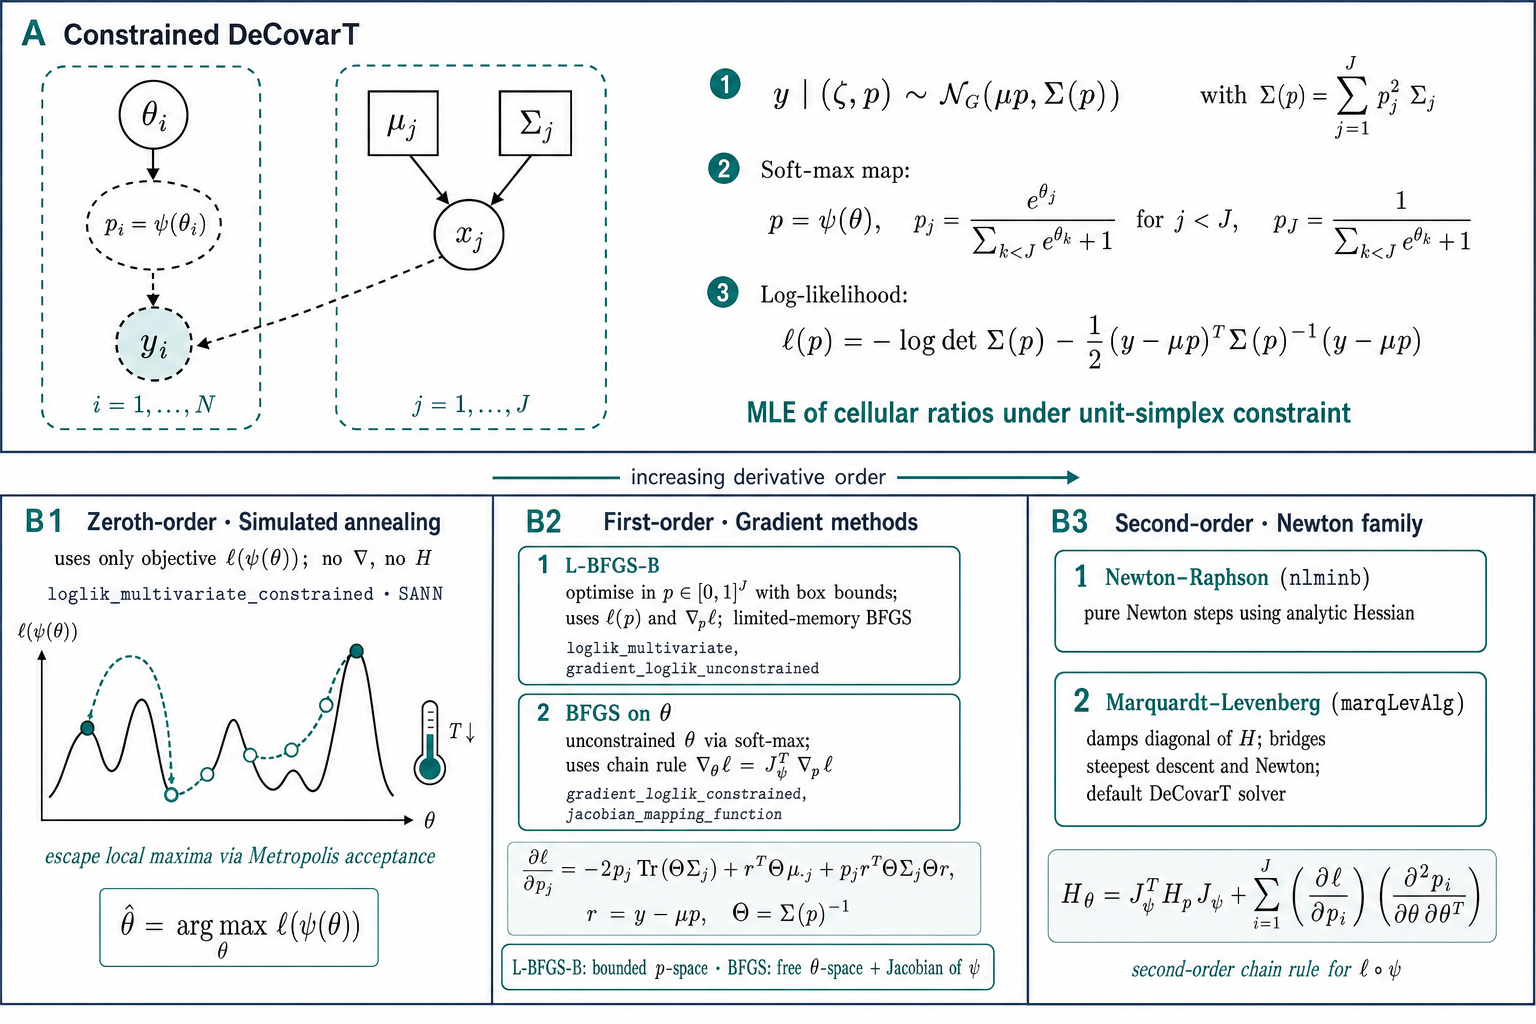
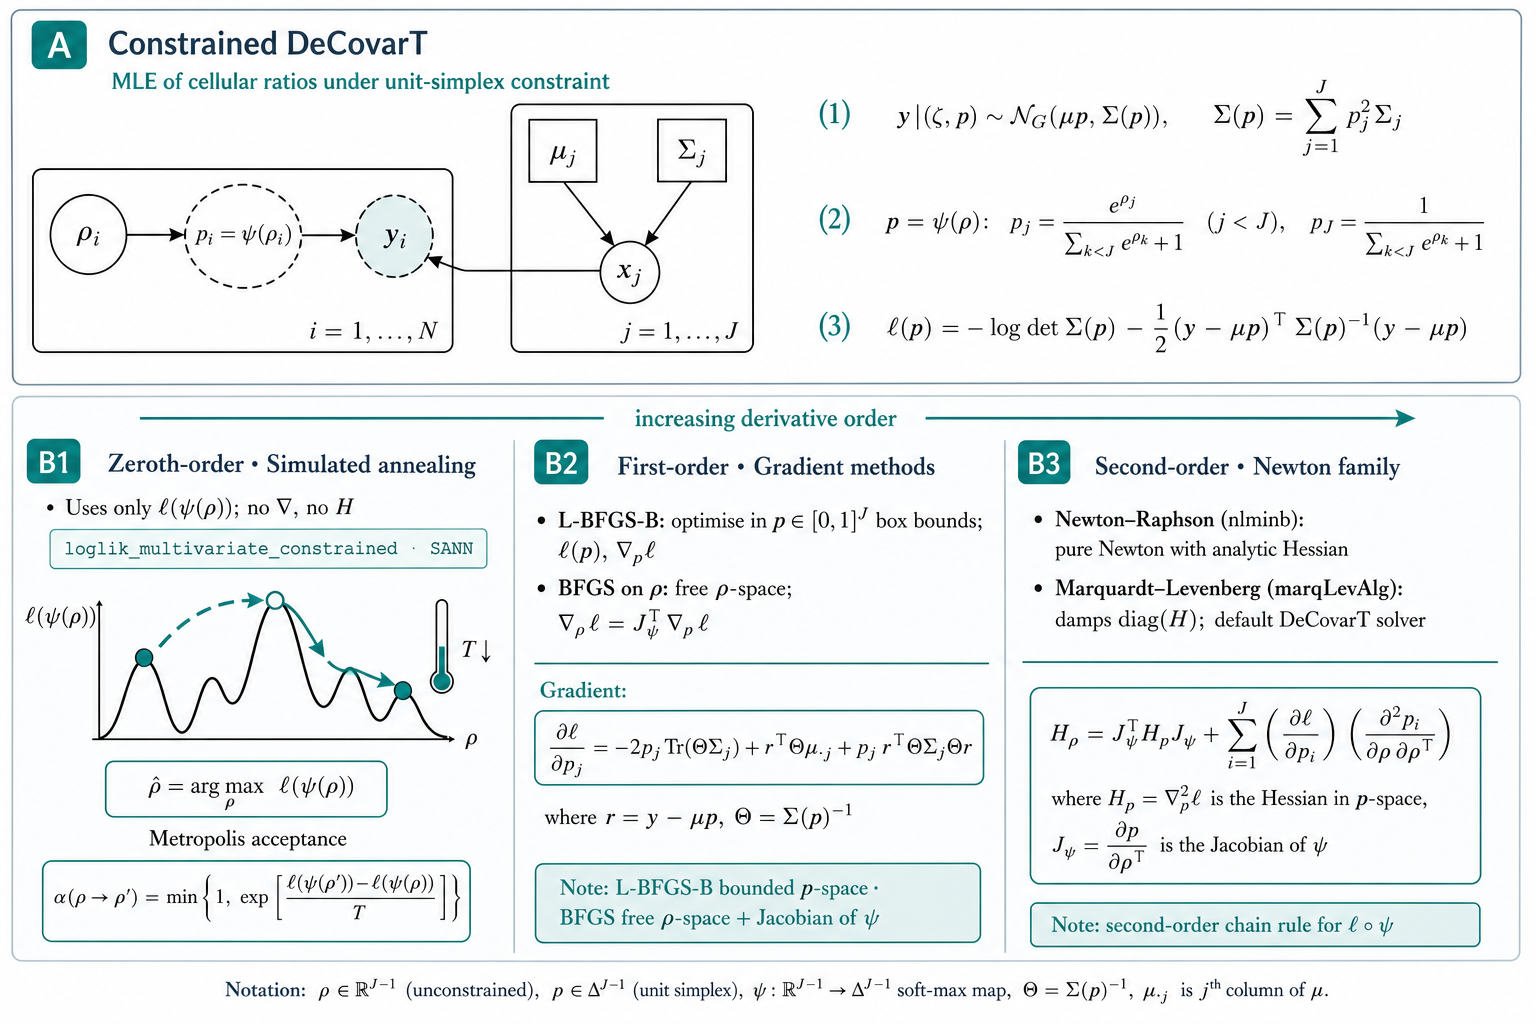
Update mathematical notation and variable names in documentation and code
- Replaced all instances of the variable name 'theta' with 'rho' in README.md, README.qmd, and various R scripts to reflect the correct parameterization in the DeCovarT model.
- Updated mathematical expressions in documentation to use the new variable 'rho' for clarity and consistency.
- Adjusted Mermaid diagrams in the README and related files to align with the updated notation.

diff --git a/article/main.tex b/article/main.tex
@@ -188,7 +188,7 @@
     To assert numerically the relevance of accounting for the correlation
     between expressed transcripts, we designed a simple toy example with two genes
     and two cell proportions. Hence, using the simplex constraint (\ref{eq-simplex-constraint}),
-    we only have to estimate one free unconstrained parameter, $\theta_{1}$, and
+    we only have to estimate one free unconstrained parameter, $\rho_{1}$, and
     then uses the mapping function, defined in Appendix A.3 to recover the
     ratios in their original space.
 
@@ -464,11 +464,11 @@
             $\boldsymbol{x}_{j}\sim\mathcal{N}_{G}(\boldsymbol{\mu}_{j},
             \boldsymbol{\Sigma}_{j})$.
             \textbf{c}~Constrained DeCovarT: unconstrained coordinates
-            $\boldsymbol{\theta}_{i}\in\mathbb{R}^{J-1}$ are mapped to the open
+            $\boldsymbol{\rho}_{i}\in\mathbb{R}^{J-1}$ are mapped to the open
             simplex by the $C^{2}$-diffeomorphism
-            $\boldsymbol{\psi}:\boldsymbol{\theta}\mapsto\boldsymbol{p}$ with
-            $p_{j}=e^{\theta_{j}}/(\sum_{k<J}e^{\theta_{k}}+1)$ for $j<J$,
-            $p_{J}=1/(\sum_{k<J}e^{\theta_{k}}+1)$, and inverse
+            $\boldsymbol{\psi}:\boldsymbol{\rho}\mapsto\boldsymbol{p}$ with
+            $p_{j}=e^{\rho_{j}}/(\sum_{k<J}e^{\rho_{k}}+1)$ for $j<J$,
+            $p_{J}=1/(\sum_{k<J}e^{\rho_{k}}+1)$, and inverse
             $\boldsymbol{\psi}^{-1}(\boldsymbol{p})=
             \bigl(\ln(p_{j}/p_{J})\bigr)_{j<J}$
             (Eq.~\ref{eq-mapping-function}).
@@ -1290,7 +1290,7 @@
         To reparametrise the log-likelihood function (\ref{eq-loglikelihood-multivariate-gaussian})
         in order to explicitly handling the unit simplex constraint (\ref{eq-simplex-constraint}),
         we consider the following mapping function: $\boldsymbol{\psi}:\boldsymbol
-        {\theta}\to \boldsymbol{p}\, | \quad \boldsymbol{\theta}\in \RR^{J-1}, \,
+        {\rho}\to \boldsymbol{p}\, | \quad \boldsymbol{\rho}\in \RR^{J-1}, \,
         \boldsymbol{p}\in ]0, 1[^{J}$ (\ref{eq-mapping-function}):
 
         \begin{multicols}{2}
@@ -1298,20 +1298,20 @@
                 \item
                     \begin{equation}
                         \label{eq-mapping-function}\boldsymbol{p}= \boldsymbol{\psi}
-                        (\boldsymbol{\theta}) =
+                        (\boldsymbol{\rho}) =
                         \begin{cases}
-                            p_{j} = \frac{e^{\theta_j}}{\sum_{k < J} e^{\theta_k} \, + \, 1}, \, j < J \\
-                            p_{J} = \frac{1}{\sum_{k < J} e^{\theta_j} + 1}
+                            p_{j} = \frac{e^{\rho_j}}{\sum_{k < J} e^{\rho_k} \, + \, 1}, \, j < J \\
+                            p_{J} = \frac{1}{\sum_{k < J} e^{\rho_j} + 1}
                         \end{cases}
                     \end{equation}
 
-                \item $\boldsymbol{\theta}= \boldsymbol{\psi}^{-1}(\boldsymbol{p}
+                \item $\boldsymbol{\rho}= \boldsymbol{\psi}^{-1}(\boldsymbol{p}
                     ) = \left(\ln{\left( \frac{p_{j}}{p_{J}}\right)}\right)_{j
                     \in \{ 1, \ldots, J -1\}}$
             \end{enumerate}
         \end{multicols}
         that is a $C^{2}$-diffeomorphism, since $\boldsymbol{\psi}$ is a
-        bijection between $\boldsymbol{p}$ and $\boldsymbol{\theta}$ twice
+        bijection between $\boldsymbol{p}$ and $\boldsymbol{\rho}$ twice
         differentiable.
 
         Its Jacobian, $\mathbf{J}_{\boldsymbol{\psi}}\in \mathcal{M}_{J \times (J-1)}$
@@ -1319,21 +1319,21 @@
 
         \begin{equation}
             \label{eq-mapping-function-gradient}\mathbf{J}_{i,j}= \frac{\partial
-            p_{i}}{\partial \theta_{j}}=
+            p_{i}}{\partial \rho_{j}}=
             \begin{cases}
-                \frac{e^{\theta_i}B_{i}}{A^{2} },\quad i = j, \, i < J             \\
-                \frac{-e^{\theta_j}e^{\theta_i}}{A^{2} }, \quad i \neq j, \, i < J \\
-                \frac{-e^{\theta_j}}{A^{2}}, \quad i=J
+                \frac{e^{\rho_i}B_{i}}{A^{2} },\quad i = j, \, i < J             \\
+                \frac{-e^{\rho_j}e^{\rho_i}}{A^{2} }, \quad i \neq j, \, i < J \\
+                \frac{-e^{\rho_j}}{A^{2}}, \quad i=J
             \end{cases}
         \end{equation}
 
         with $i$ indexing vector-valued $\boldsymbol{p}$ and $j$ indexing the
         first-order order partial derivatives of the mapping function, $A=\sum_{j'
-        < J}\,e^{\theta_{j'}}\, + \, 1$ the sum over exponential (denominator of
-        the mapping function) and $B=A - e^{\theta_{i}}$ the sum over ratios minus
+        < J}\,e^{\rho_{j'}}\, + \, 1$ the sum over exponential (denominator of
+        the mapping function) and $B=A - e^{\rho_{i}}$ the sum over ratios minus
         the exponential indexed with the currently considered index $i$.
 
-        The Hessian of the multi-dimensional mapping function $\boldsymbol{\psi (\theta)}$
+        The Hessian of the multi-dimensional mapping function $\boldsymbol{\psi}(\boldsymbol{\rho})$
         exhibits symmetry for each cell ratio component $j$, as anticipated in
         accordance with Schwarz's theorem. It is is a third-order tensor of rank
         $(J-1)(J-1)J$, given by \ref{eq-mapping-function-hessian}:
@@ -1341,18 +1341,18 @@
         \begin{equation}
             \label{eq-mapping-function-hessian}
             \begin{aligned}
-                \frac{\partial^{2} p_{i}}{\partial k \partial j} & = \begin{cases}\frac{e^{\theta_i}e^{\theta_l}\left (-B_{i} + e^{\theta_i}\right)}{A^{3}},\, (i<J) \land \left((i\neq j) \oplus(i\neq k)\right) \quad (a)\\ \frac{2 e^{\theta_i}e^{\theta_j}e^{\theta_k}}{A^{3}}, \, (i<J) \land (i \neq j \neq k) \quad (b)\\ \frac{e^{\theta_i}e^{\theta_j}\left (-A + 2e^{\theta_j}\right)}{A^{3}}, \, (i<J) \land (j=k\neq i) \quad (c)\\ \frac{B_{i} e^{\theta_i}\left( B_{i} - e^{\theta_i}\right)}{A^{3}}, \, (i<J) \land (j = k = i) \quad (d)\\ \frac{e^{\theta_j}\left( -A + 2 e^{\theta_j}\right)}{A^{3}}, \, (i=J) \land (j = k) \quad (e)\\ \frac{2 e^{\theta_j}e^{\theta_k}}{A^{3}}, \, (i=J) \land (j \neq k) \quad (f)\end{cases}
+                \frac{\partial^{2} p_{i}}{\partial k \partial j} & = \begin{cases}\frac{e^{\rho_i}e^{\rho_l}\left (-B_{i} + e^{\rho_i}\right)}{A^{3}},\, (i<J) \land \left((i\neq j) \oplus(i\neq k)\right) \quad (a)\\ \frac{2 e^{\rho_i}e^{\rho_j}e^{\rho_k}}{A^{3}}, \, (i<J) \land (i \neq j \neq k) \quad (b)\\ \frac{e^{\rho_i}e^{\rho_j}\left (-A + 2e^{\rho_j}\right)}{A^{3}}, \, (i<J) \land (j=k\neq i) \quad (c)\\ \frac{B_{i} e^{\rho_i}\left( B_{i} - e^{\rho_i}\right)}{A^{3}}, \, (i<J) \land (j = k = i) \quad (d)\\ \frac{e^{\rho_j}\left( -A + 2 e^{\rho_j}\right)}{A^{3}}, \, (i=J) \land (j = k) \quad (e)\\ \frac{2 e^{\rho_j}e^{\rho_k}}{A^{3}}, \, (i=J) \land (j \neq k) \quad (f)\end{cases}
             \end{aligned}
         \end{equation}
 
         with $i$ indexing $\boldsymbol{p}$, $j$ and $k$ respectively indexing
         the first-order and second-order partial derivatives of the mapping
-        function with respect to $\boldsymbol{\theta}$. In line $(a)$, $\oplus$
+        function with respect to $\boldsymbol{\rho}$. In line $(a)$, $\oplus$
         refers to the Boolean XOR operator, $\land$ to the AND operator and $l=\{
         j,k\} \setminus i$.
 
         To derive the log-likelihood function in \ref{eq-derivative-log-likelihood-unconstrained},
-        we reparametrise $\boldsymbol{p}$ to $\boldsymbol{\theta}$, using a standard
+        we reparametrise $\boldsymbol{p}$ to $\boldsymbol{\rho}$, using a standard
         \textit{chain rule formula}. Considering the original log-likelihood function,
         \ref{eq-loglikelihood-multivariate-gaussian}, and the mapping function,
         \ref{eq-mapping-function}, the differential at the first order and at the
@@ -1362,21 +1362,21 @@
         \begin{equation}
             \label{eq-chain-rule-first-order}
             \begin{bmatrix}
-                \frac{\partial \ell_{\boldsymbol{y} | \boldsymbol{\zeta}}}{\partial \theta_{j}}
+                \frac{\partial \ell_{\boldsymbol{y} | \boldsymbol{\zeta}}}{\partial \rho_{j}}
             \end{bmatrix}_{j < J}= \sum_{i=1}^{J} \frac{\partial \ell_{\boldsymbol{y}
             | \boldsymbol{\zeta}}}{\partial p_{i}}\frac{\partial p_{i}}{\partial
-            \theta_{j}}
+            \rho_{j}}
         \end{equation}
 
         \begin{equation}
             \label{eq-chain-rule-second-order}
             \begin{bmatrix}
-                \frac{\partial \ell_{\boldsymbol{y}|\boldsymbol{\zeta}}^{2} }{\partial \theta_{k} \theta_{j}}
+                \frac{\partial \ell_{\boldsymbol{y}|\boldsymbol{\zeta}}^{2} }{\partial \rho_{k} \rho_{j}}
             \end{bmatrix}_{j < J, \, k < J}= \sum_{i=1}^{J} \sum_{l=1}^{J} \left(
-            \frac{\partial p_{i} }{\partial \theta_{j}}\frac{\partial^{2} \ell_{\boldsymbol{y}|\boldsymbol{\zeta}}}{\partial
-            p_{i} \partial p_{l}}\frac{\partial p_{l} }{\partial \theta_{k}}\right
+            \frac{\partial p_{i} }{\partial \rho_{j}}\frac{\partial^{2} \ell_{\boldsymbol{y}|\boldsymbol{\zeta}}}{\partial
+            p_{i} \partial p_{l}}\frac{\partial p_{l} }{\partial \rho_{k}}\right
             ) \, + \, \sum_{i=1}^{J} \left( \frac{\partial \ell_{\boldsymbol{y}|\boldsymbol{\zeta}}}{\partial
-            p_{i}}\frac{\partial^{2} p_{i} }{\partial \theta_{k} \theta_{j}}\right
+            p_{i}}\frac{\partial^{2} p_{i} }{\partial \rho_{k} \rho_{j}}\right
             ) \quad (d)
         \end{equation}
 

diff --git a/article/figs/tikz_dag_models.tex b/article/figs/tikz_dag_models.tex
@@ -87,7 +87,7 @@
 
 % -------------------- (c) Constrained DeCovarT --------------------
 \begin{tikzpicture}[x=1.1cm, y=1.0cm, >=stealth, font=\small]
-  \node[latent] (th) at (0, 2.1) {$\boldsymbol{\theta}_{i}$};
+  \node[latent] (th) at (0, 2.1) {$\boldsymbol{\rho}_{i}$};
   \node[detcirc] (p) at (0, 0.9) {$\boldsymbol{p}_{i}$};
   \node[obsdashed] (y) at (0, -0.55) {$\boldsymbol{y}_{i}$};
   \draw[->] (th) -- (p);

diff --git a/README.md b/README.md
@@ -21,7 +21,7 @@ gene–gene covariance structure in purified reference populations.
 ## The generative model of DeCovarT
 
 Constrained DeCovarT maps unconstrained coordinates
-$\boldsymbol{\theta}_{i}\in\mathbb{R}^{J-1}$ to cellular proportions
+$\boldsymbol{\rho}_{i}\in\mathbb{R}^{J-1}$ to cellular proportions
 $\boldsymbol{p}_{i}$ on the open simplex via a regularised soft-max
 $\boldsymbol{\psi}$, then forms the bulk observation as a Gaussian convolution
 of cell-type profiles
@@ -59,10 +59,10 @@ flowchart TB
 
   subgraph plateI["i = 1,...,N"]
     direction TB
-    theta(("θ_i"))
-    p["p_i = ψ(θ_i)"]
+    rho(("ρ_i"))
+    p["p_i = ψ(ρ_i)"]
     y(["y_i"])
-    theta -->|"ψ soft-max"| p
+    rho -->|"ψ soft-max"| p
     p -.-> y
   end
 
@@ -74,18 +74,18 @@ flowchart TB
   classDef obs fill:#cbd5e1,stroke:#0f172a,stroke-width:1.5px,stroke-dasharray:5 3;
 
   class mu,Sj param;
-  class theta,xj latent;
+  class rho,xj latent;
   class p det;
   class y obs;
 ```
 
 Forward map
-$\boldsymbol{\psi}:\boldsymbol{\theta}\mapsto\boldsymbol{p}$
+$\boldsymbol{\psi}:\boldsymbol{\rho}\mapsto\boldsymbol{p}$
 ($C^{2}$-diffeomorphism):
 
 $$
-p_{j}=\frac{e^{\theta_{j}}}{\sum_{k<J}e^{\theta_{k}}+1}\ (j<J),\qquad
-p_{J}=\frac{1}{\sum_{k<J}e^{\theta_{k}}+1},\qquad
+p_{j}=\frac{e^{\rho_{j}}}{\sum_{k<J}e^{\rho_{k}}+1}\ (j<J),\qquad
+p_{J}=\frac{1}{\sum_{k<J}e^{\rho_{k}}+1},\qquad
 \boldsymbol{\psi}^{-1}(\boldsymbol{p})=\bigl(\ln(p_{j}/p_{J})\bigr)_{j<J}.
 $$
 
